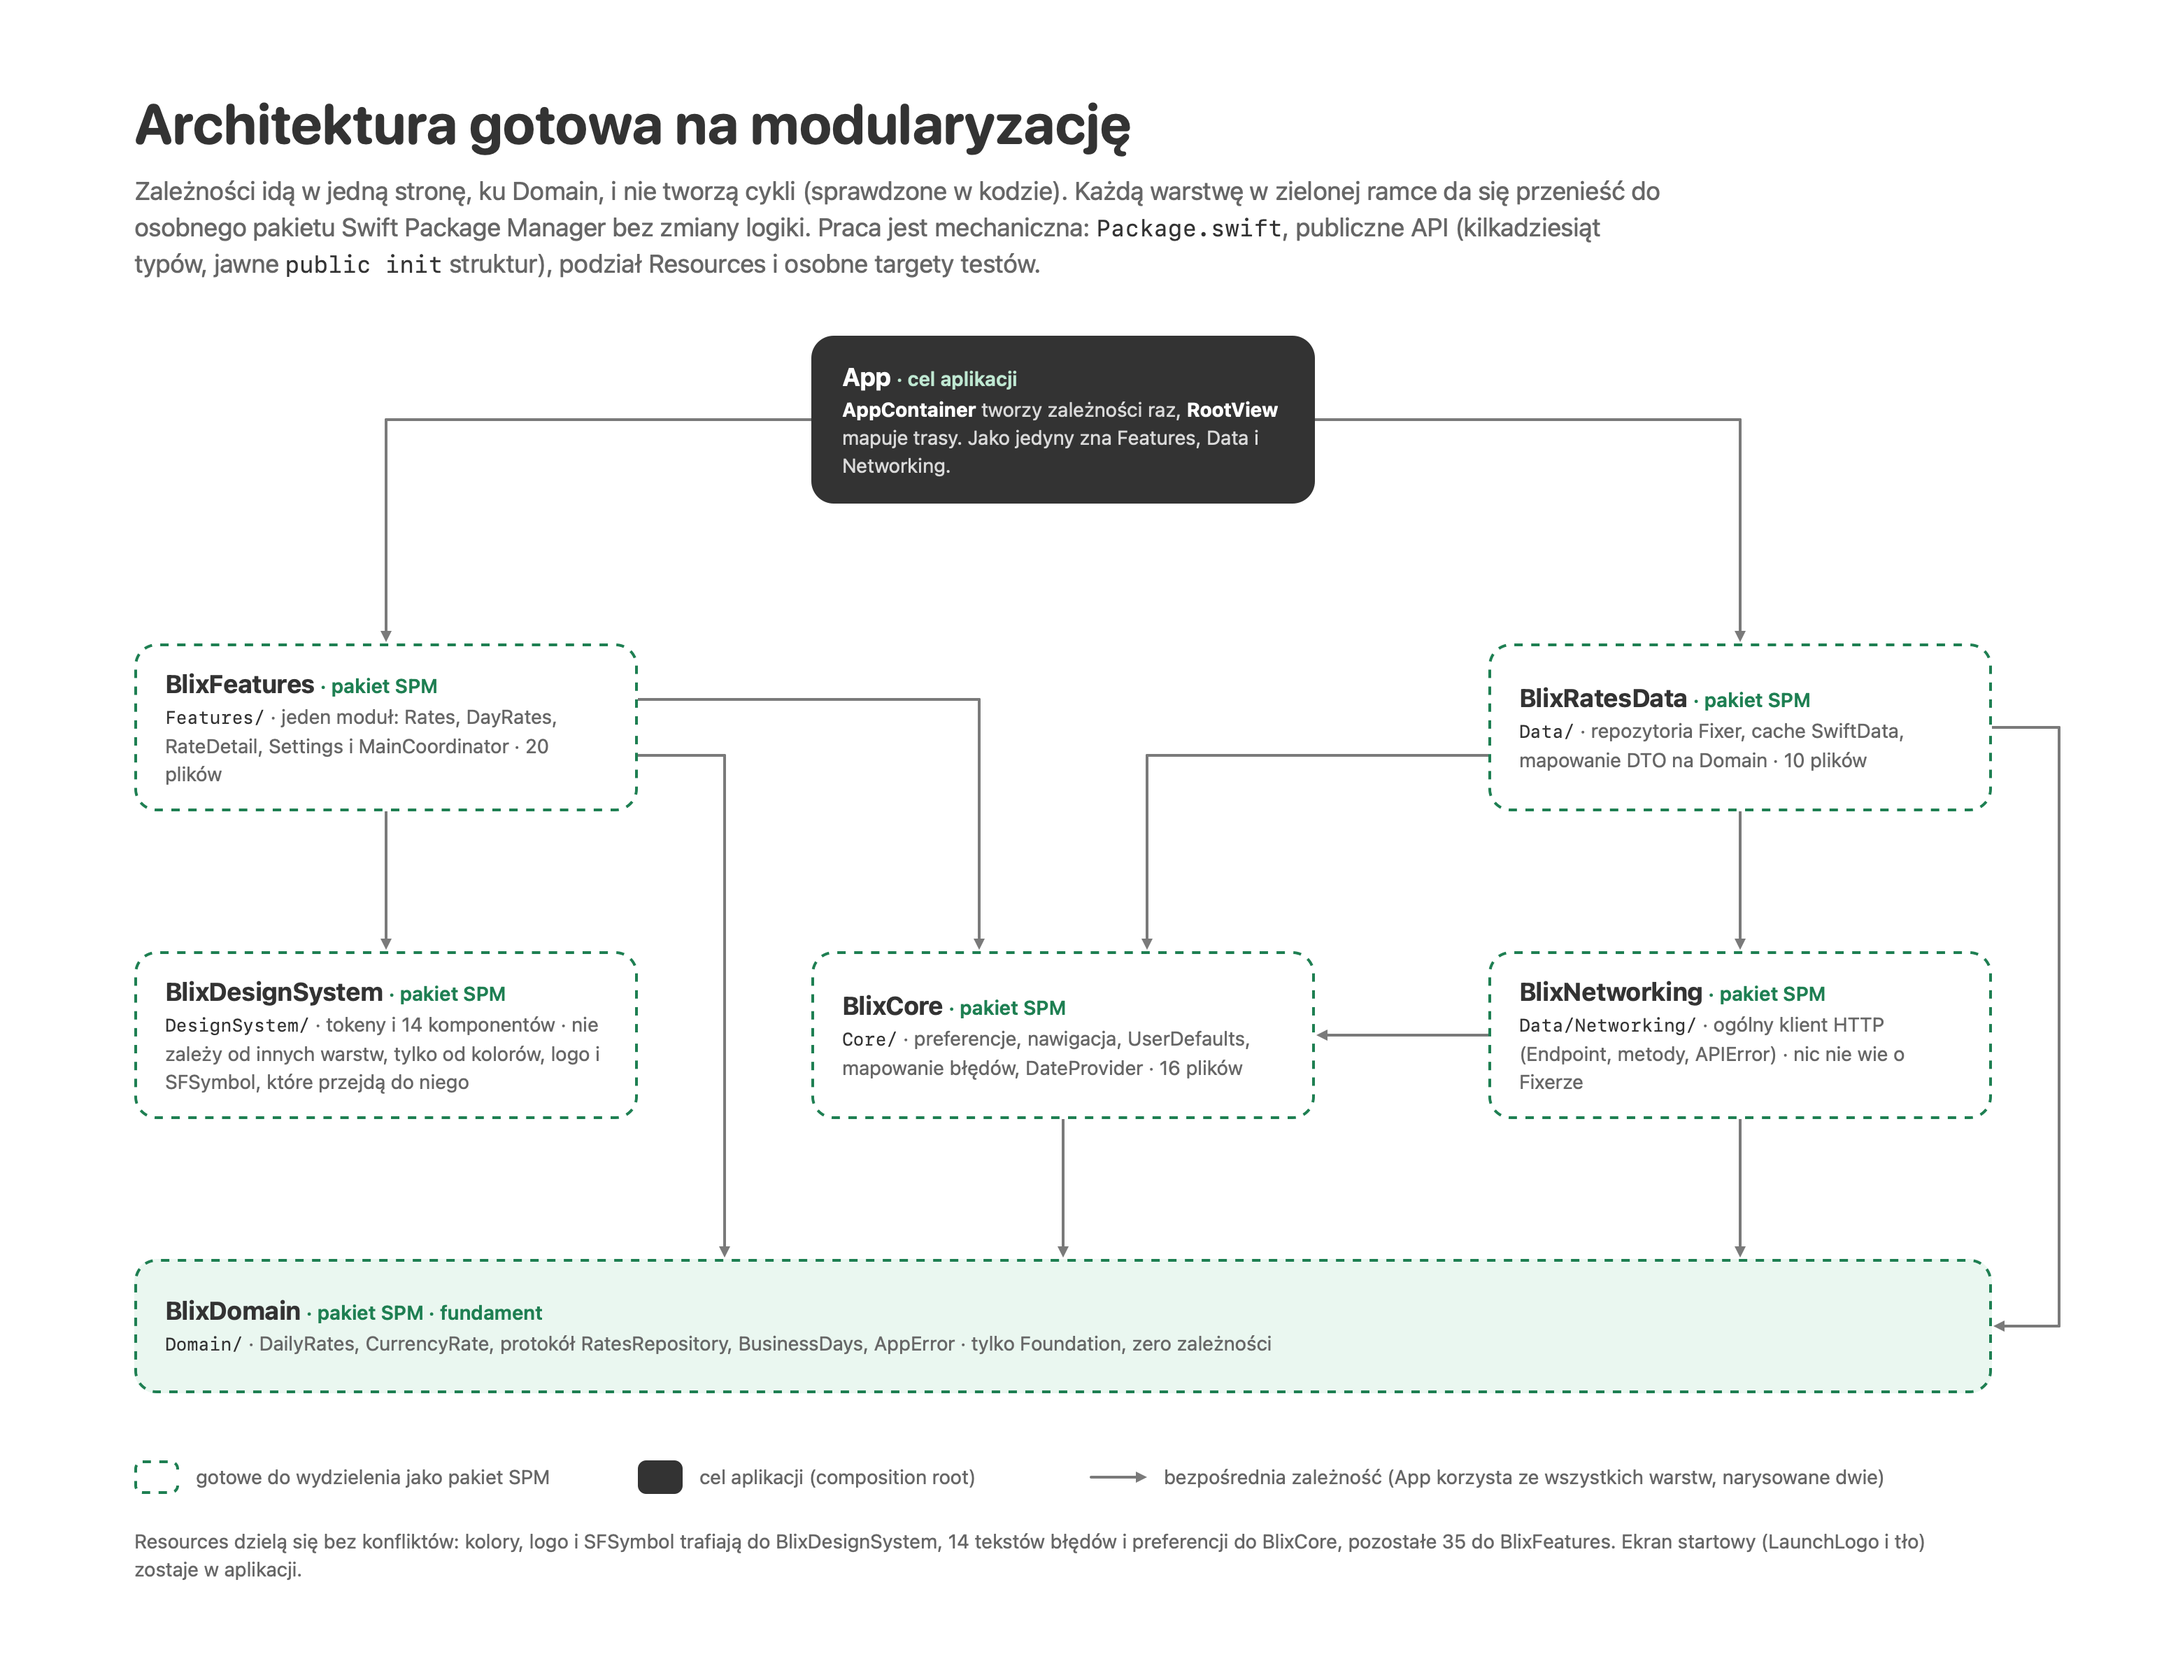
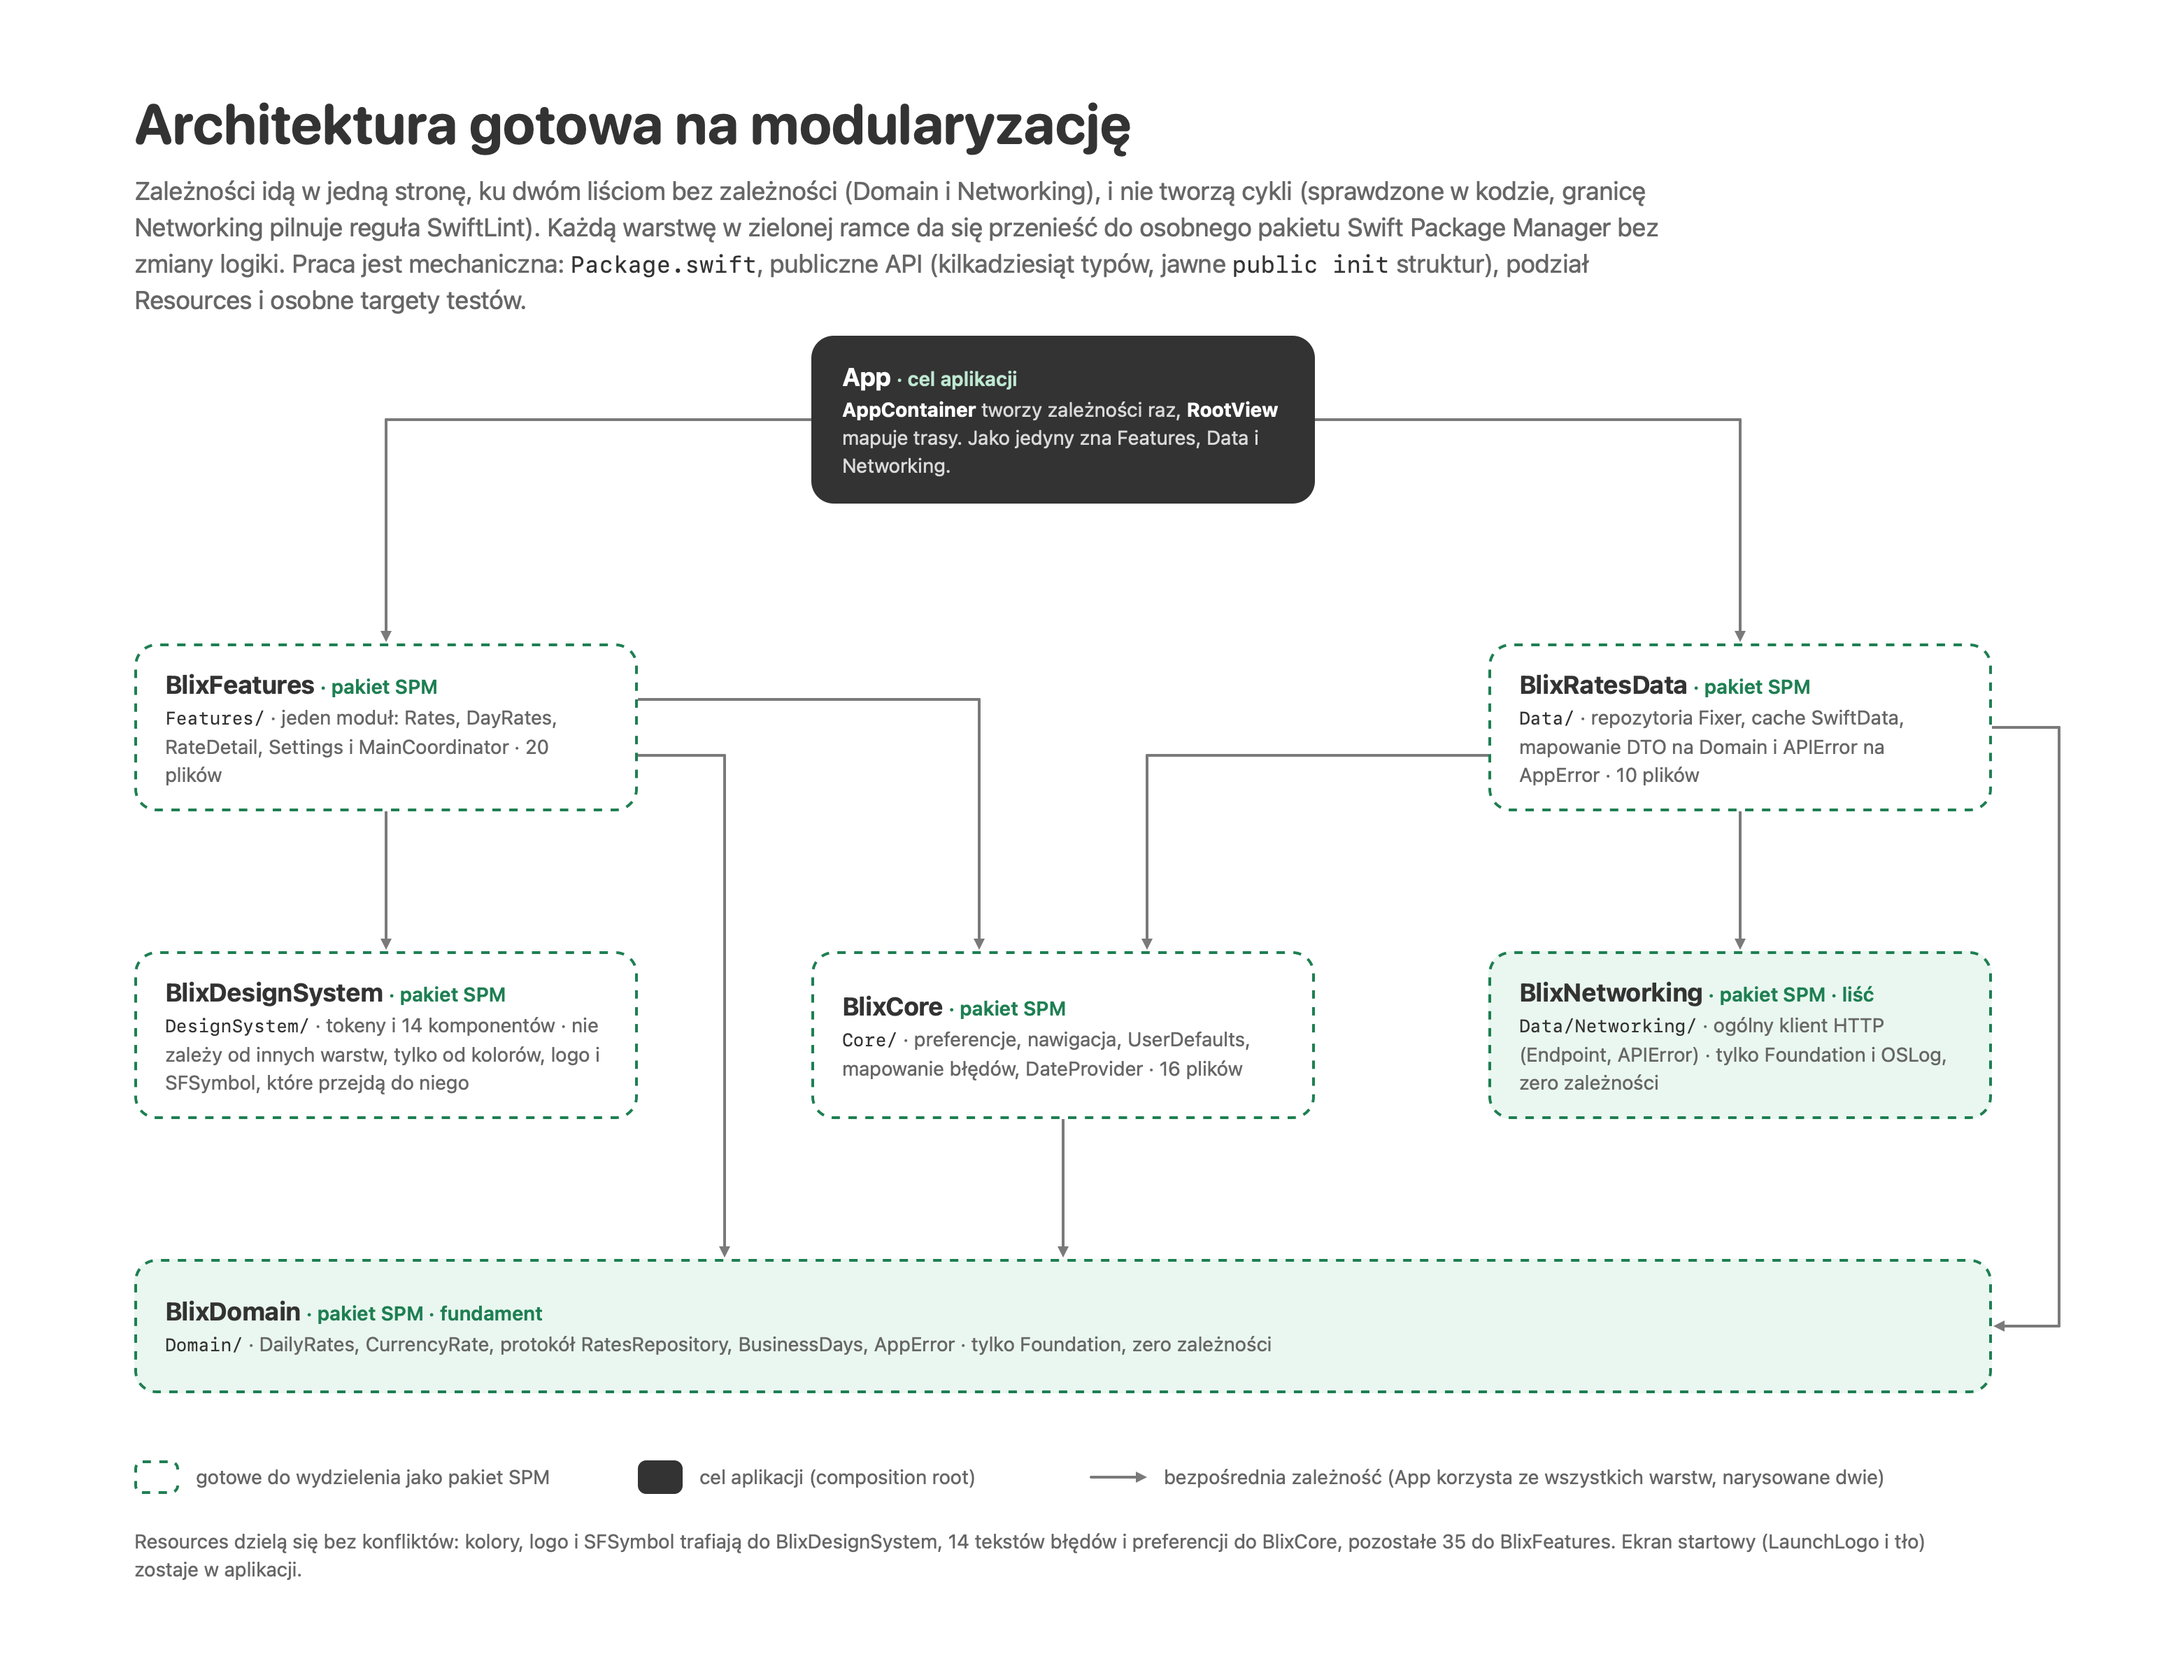
refactor(data): make Networking a leaf layer
- move APIError → AppError mapping from Networking to Data/Errors
- give URLSessionHTTPClient its own network logger
- add networking_is_leaf SwiftLint rule
- move the mapping tests to Unit/Errors
- document the boundary in CLAUDE.md files, README and the architecture diagram

diff --git a/BlixRekrtuacja/Data/Networking/Client/URLSessionHTTPClient.swift b/BlixRekrtuacja/Data/Networking/Client/URLSessionHTTPClient.swift
@@ -63,7 +63,7 @@ struct URLSessionHTTPClient: HTTPClient {
     private func log<Response>(_ error: APIError, for endpoint: Endpoint<Response>) {
         guard error != .cancelled else { return }
         let request = "\(endpoint.method.rawValue) \(endpoint.path)"
-        Logger.network.error("\(request) failed: \(String(describing: error), privacy: .public)")
+        Log.network.error("\(request) failed: \(String(describing: error), privacy: .public)")
     }
 }
 
@@ -74,5 +74,11 @@ private extension URLSessionHTTPClient {
         static let accept = "Accept"
         static let contentType = "Content-Type"
         static let applicationJSON = "application/json"
+    }
+
+    enum Log {
+        static let subsystem = Bundle.main.bundleIdentifier ?? "BlixRekrtuacja"
+        static let category = "network"
+        static let network = Logger(subsystem: subsystem, category: category)
     }
 }

diff --git a/BlixRekrtuacjaTests/Unit/Errors/APIErrorTests.swift b/BlixRekrtuacjaTests/Unit/Errors/APIErrorTests.swift
@@ -1,7 +1,7 @@
 @testable import BlixRekrtuacja
 import Testing
 
-@Suite(.tags(.unit, .networking))
+@Suite(.tags(.unit, .errors))
 struct APIErrorTests {
     @Test(arguments: Self.mappings)
     func mapsToAppError(_ scenario: Scenario) {

diff --git a/BlixRekrtuacja/Data/CLAUDE.md b/BlixRekrtuacja/Data/CLAUDE.md
@@ -3,13 +3,18 @@
 Data talks to the outside world: networking, repositories, DTOs and the on-device cache.
 It knows Domain and Core.
 
-## Networking (`Networking/Client/`, `Networking/Errors/`)
+## Networking (`Networking/Client/`, `APIError`)
+- Networking knows only Foundation and OSLog — never Core or Domain types.
 - Every request goes through the `HTTPClient` protocol and `Endpoint<Response>` (path, method, query, body).
   Only `URLSessionHTTPClient` touches `URLSession`.
-- The client throws typed `APIError` and logs once with `Logger.network`.
+- The client throws typed `APIError` and logs once with its own logger (category "network").
 - Use `EmptyResponse` for requests without a body in the reply.
-- Errors reach Features as `AppError`: `APIError` through `AppErrorConvertible` (`APIError+AppError.swift`); Fixer error
-  codes and incomplete Fixer bodies throw `AppError` directly. Never map them in ViewModels.
+
+## Errors (`Errors/`)
+- Errors reach Features as `AppError`: Data maps `APIError` through `AppErrorConvertible`
+  (`Errors/APIError+AppError.swift`); Fixer error codes and incomplete Fixer bodies throw `AppError` directly. Never map them in ViewModels.
+
+## Extensions (`Extensions/`)
 - Extensions of Apple types used only by Data live in `Extensions/<Type>+<Purpose>.swift` (`Bundle+Fixer.swift`):
   one target, so file names must be unique across layers.
 

diff --git a/README.md b/README.md
@@ -132,7 +132,7 @@ tylko rysują, a logikę można testować bez interfejsu.
 | `App` | composition root: `AppContainer` tworzy zależności raz, `RootView` obsługuje nawigację |
 | `Features` | ekrany (View + ViewModel), `MainCoordinator`, wspólne modele i prezentacja |
 | `DesignSystem` | tokeny, komponenty `Blix…` i modyfikatory |
-| `Data` | klient HTTP, repozytoria Fixera, cache SwiftData |
+| `Data` | repozytoria Fixera, cache SwiftData, mapowanie `APIError` → `AppError`; `Networking` (klient HTTP) zna tylko Foundation i OSLog |
 | `Core` | preferencje, nawigacja, magazyn ustawień, mapowanie błędów, usługi (`DateProvider`, `Clipboard`) |
 | `Domain` | encje, protokoły repozytoriów, reguła dni roboczych, `AppError`; tylko Foundation |
 

diff --git a/CLAUDE.md b/CLAUDE.md
@@ -29,6 +29,7 @@ Follow the `ios-project-conventions` skill; on conflict the CLAUDE.md files win.
   - App → every layer
   - Features → DesignSystem, Core, Domain
   - Data → Core, Domain
+  - Data/Networking → Foundation only
   - Core → Domain
 
   Only App depends on Features or Data.
